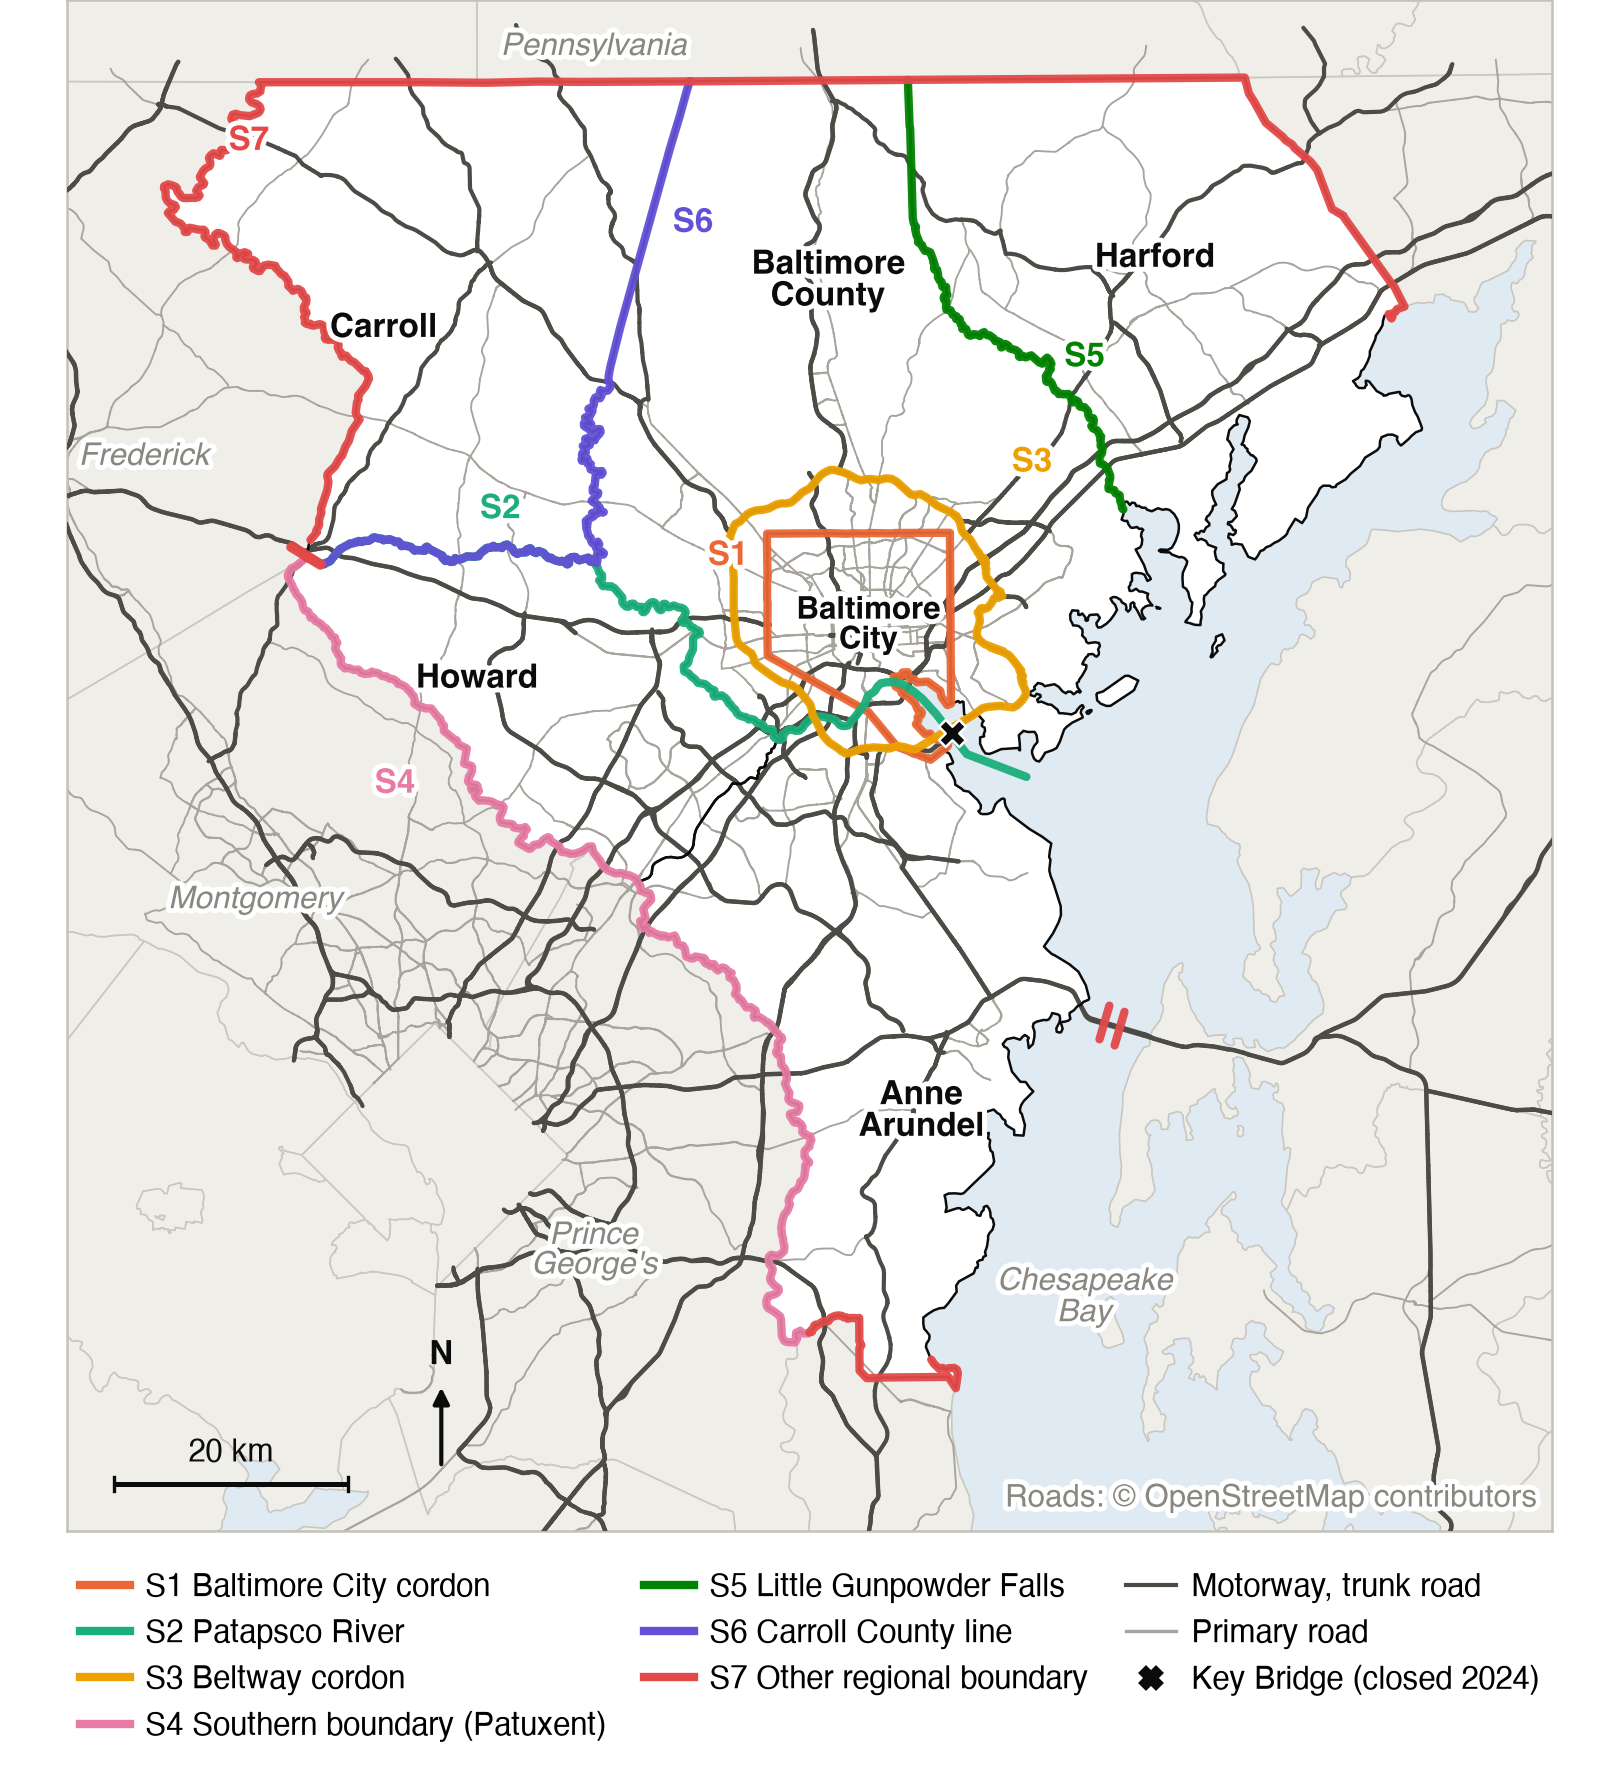
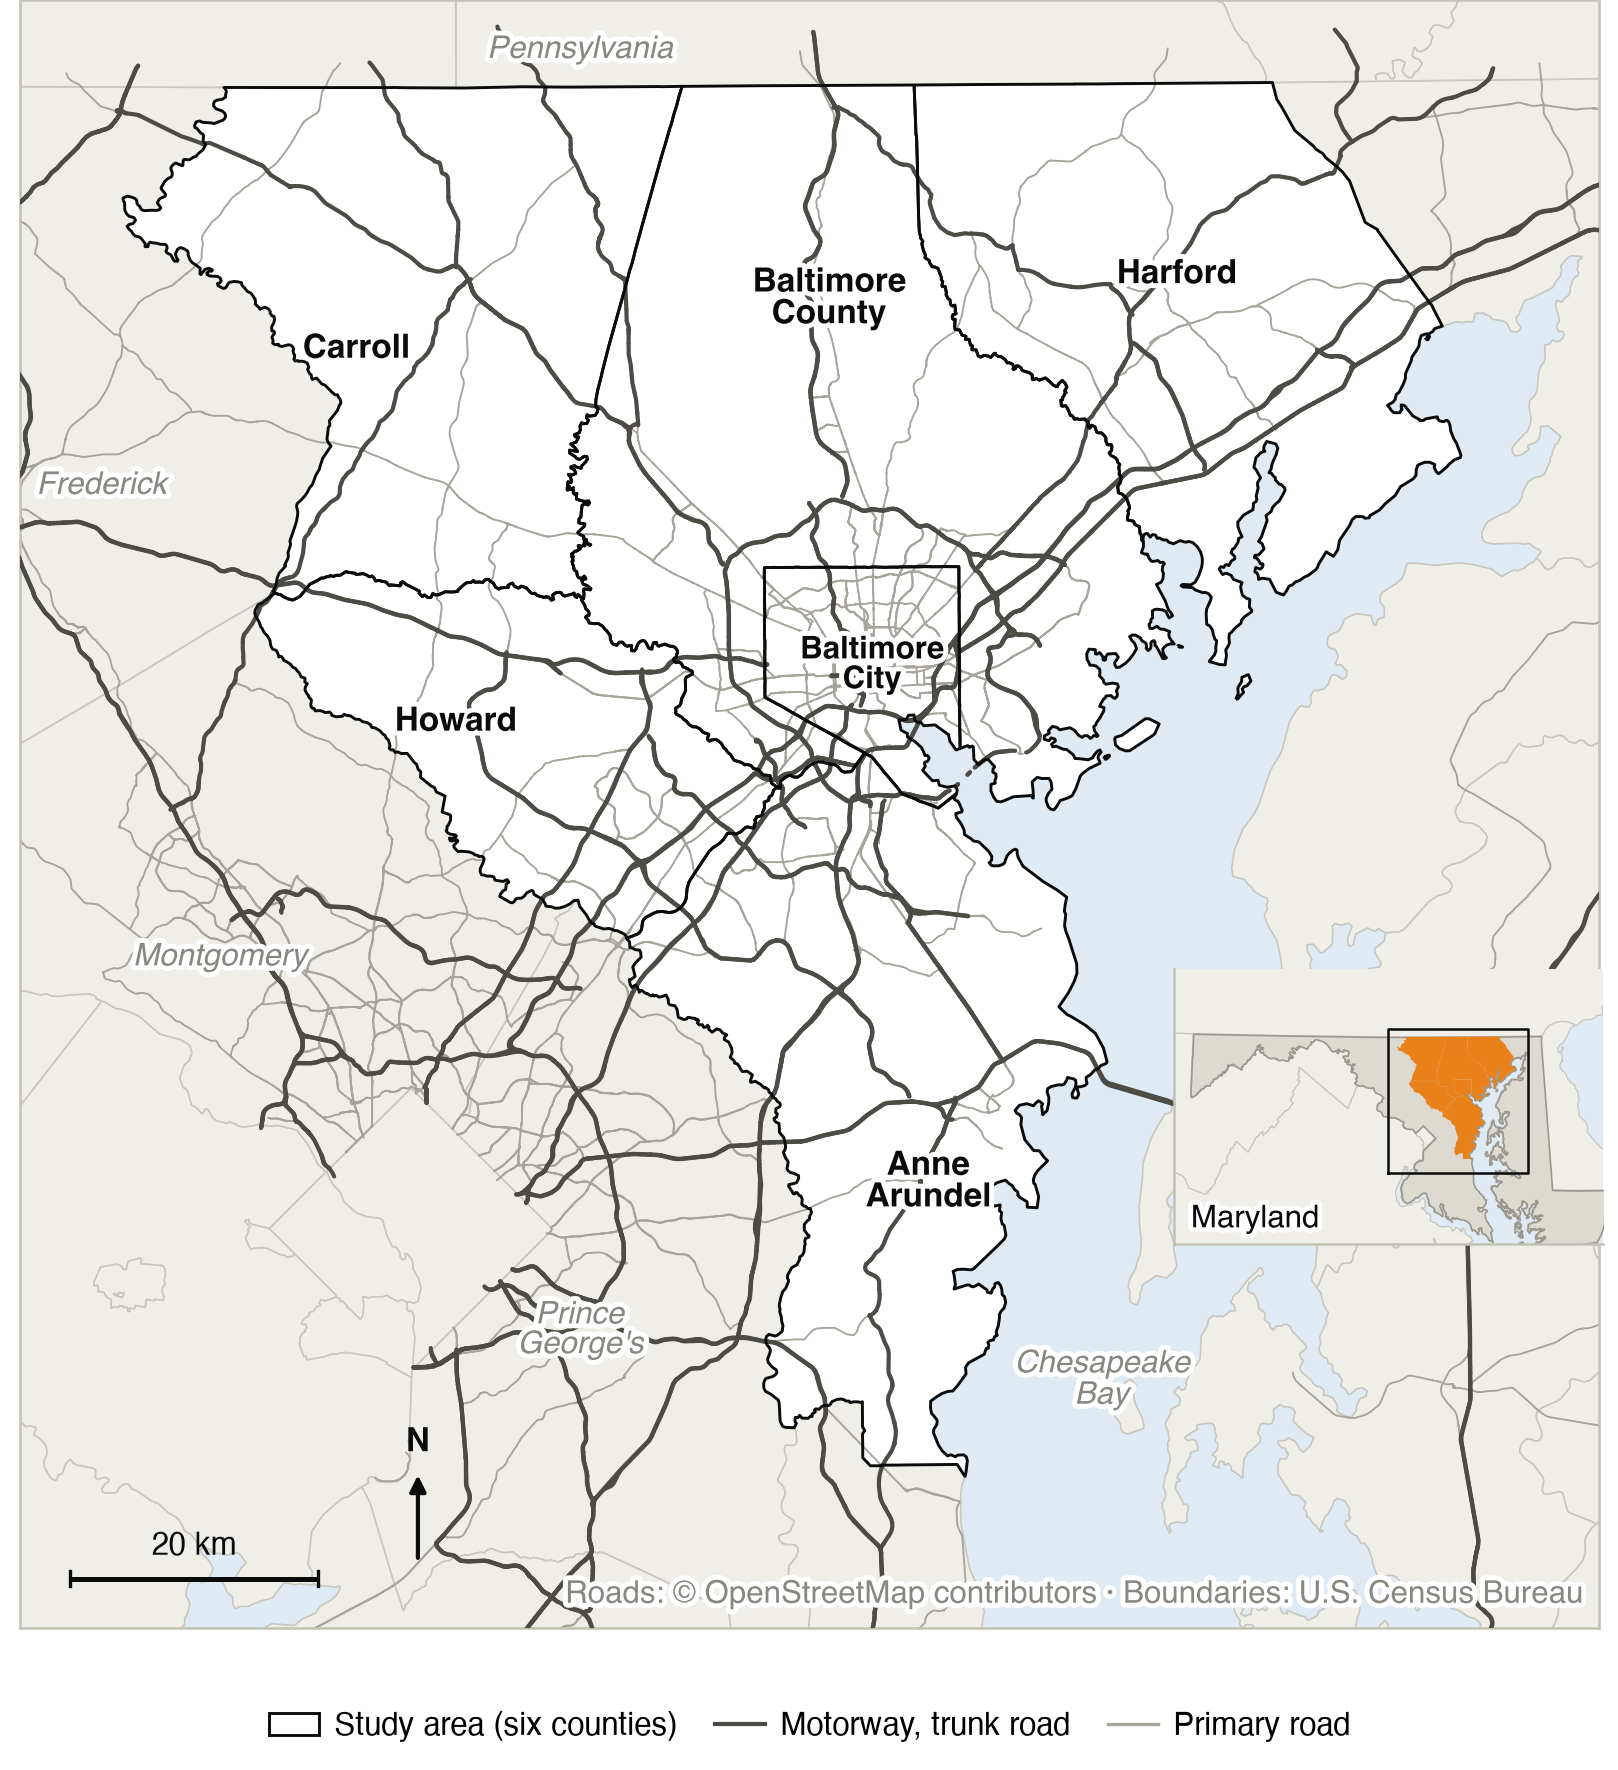
Standard study-area map without screenlines and stations
Claude-Session: https://claude.ai/code/session_014VFNk9aPYwPbWJuWAxkRS2

diff --git a/docs/model-design/index.md b/docs/model-design/index.md
@@ -34,7 +34,7 @@ migration across the regional boundary are represented. Land use runs with open 
 
 <figure markdown>
   ![](../assets/img/net_study_area.png)
-  <figcaption>Study area, major roads and the screenlines S1–S7 used in the validation. Cross: Key Bridge, closed since March 2024. Roads: OpenStreetMap.</figcaption>
+  <figcaption>Study area: the six counties of the Baltimore region and the major roads. Inset: location in Maryland.</figcaption>
 </figure>
 
 ## Level of service
